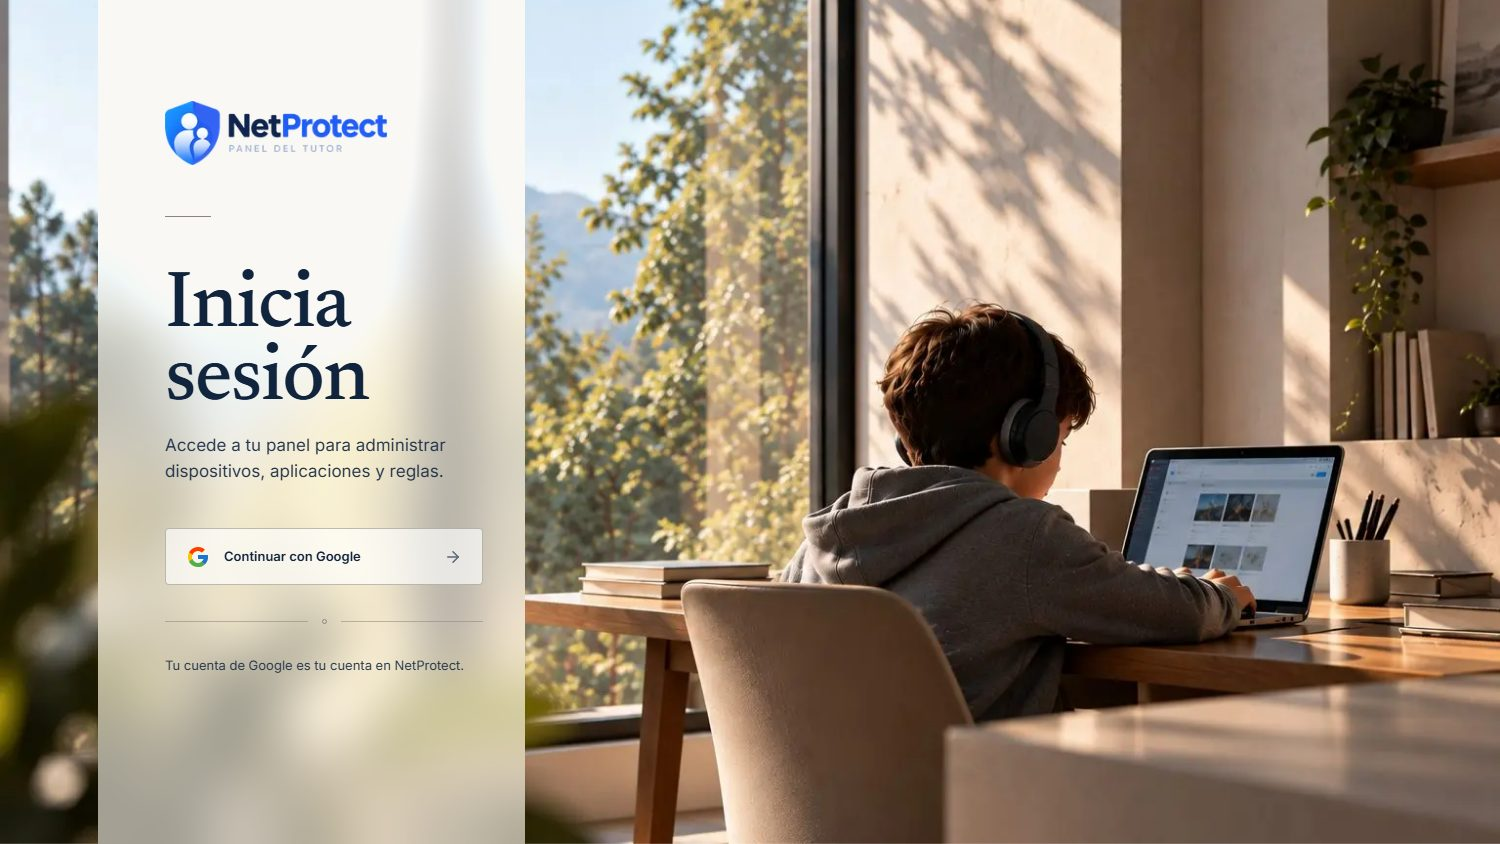
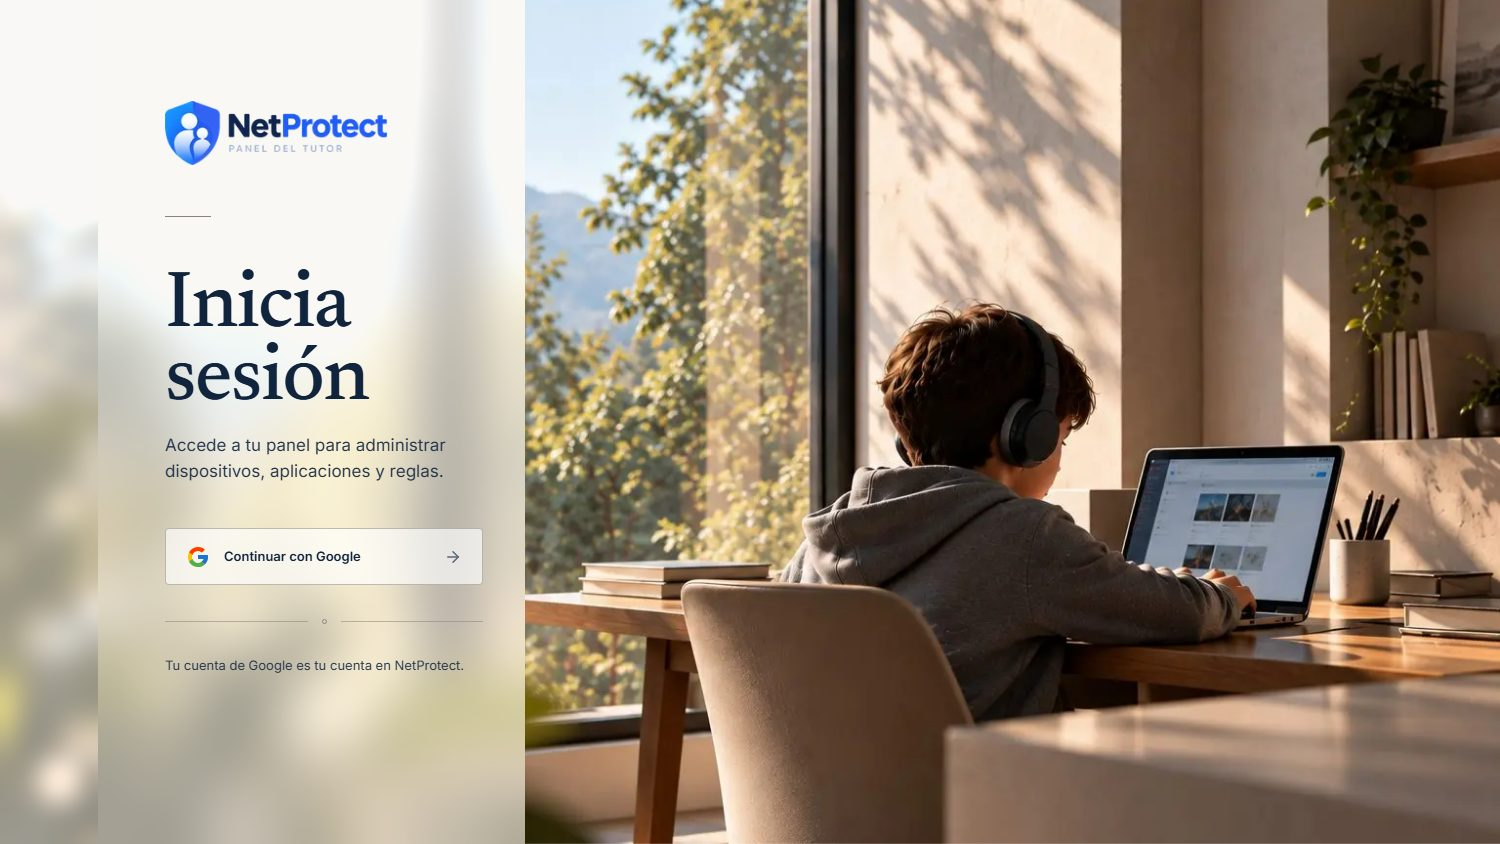
fix(web): aclarar la franja izquierda del login como pared (S60)
A la izquierda del cristal la referencia muestra pared lisa y aqui se veian los arboles de
la ventana, nitidos. Un velo del 55 % de crema con desenfoque de 12 px y brightness 1.5
sobre esa franja (un pseudo-elemento de .screen, solo en escritorio, del ancho del margen
izquierdo del panel) la lleva al tono de la referencia: luminosidad media 0,604 medida en el
render real frente a 0,590 de la referencia. Conserva un tinte verdoso de la foto.

Changed region(s): [[0.0, 0.0, 0.092, 1.0]]

diff --git a/frontend/src/components/login/LoginScreen.module.css b/frontend/src/components/login/LoginScreen.module.css
@@ -147,6 +147,22 @@
   }
 
   /* A full-height glass strip, inset from the left edge so a band of photograph frames it. */
+  /* The band of photograph left of the glass reads as plain wall in the mockup, but here it is
+     the window with the trees. A lighter, softer veil brings it to the mockup's tone (mean
+     luminance 0.61 against 0.59, measured on the reference and on the photograph). It is as wide as
+     the panel's left margin, so it needs no markup. */
+  .screen::before {
+    content: "";
+    position: absolute;
+    inset: 0 auto 0 0;
+    z-index: 1;
+    width: clamp(var(--space-6), 6.5vw, 120px);
+    background: color-mix(in srgb, var(--color-bg) 55%, transparent);
+    -webkit-backdrop-filter: blur(12px) brightness(1.5);
+    backdrop-filter: blur(12px) brightness(1.5);
+    pointer-events: none;
+  }
+
   /* Proportions read off the mockup (1500px wide): the strip is 28.5% wide and starts at 6.5%; the
      content sits 4.5% in from its left edge and 2.8% from the right, so it is ~21% wide. The extra
      bottom padding lifts the block a little above the vertical centre, as in the mockup. */

diff --git a/docs/sprint-60.md b/docs/sprint-60.md
@@ -113,7 +113,9 @@ escribir). Un commit por unidad de trabajo, con el porqué. Se marca solo con ev
   `login-520.jpg` y `login-vs-mockup.jpg` (referencia a la izquierda, resultado a la derecha, recorte del panel). Chrome no
   admite ventanas de menos de ~500 px, así que no hay captura a 390 px. `eslint` y `tsc` limpios.
   **Diferencias que se mantienen:** el logo es el oficial (la referencia dibuja un wordmark serif propio y escribe
-  «NetProject»); la franja izquierda muestra árboles de la foto en lugar de pared lisa; la tarjeta móvil tapa la cara del
+  «NetProject»); la franja izquierda, aclarada a petición del dueño (velo del 55 % con desenfoque de 12 px en `.screen::before`,
+  luminosidad media 0,604 en el render real frente a 0,590 de la referencia), ya no muestra los árboles nítidos pero
+  conserva un tinte verdoso de la foto en lugar de pared lisa; la tarjeta móvil tapa la cara del
   niño (no se ajustó `object-position`). **Pendiente:** verlo en un teléfono o a 390 px reales.
 - [ ] T8 — Verificación y cierre: `npm run lint && npm run build` y e2e vía `verifier`, `docs/sprint-60-evidence.md`,
   `/cerrar-sprint 60`.
